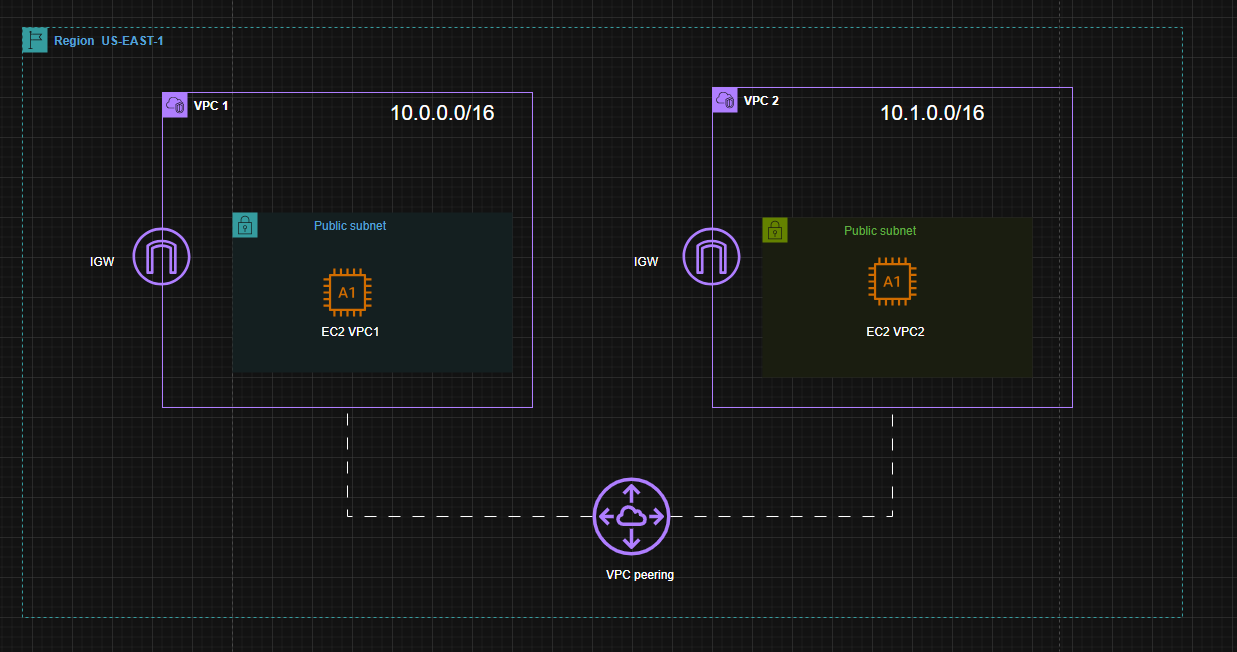
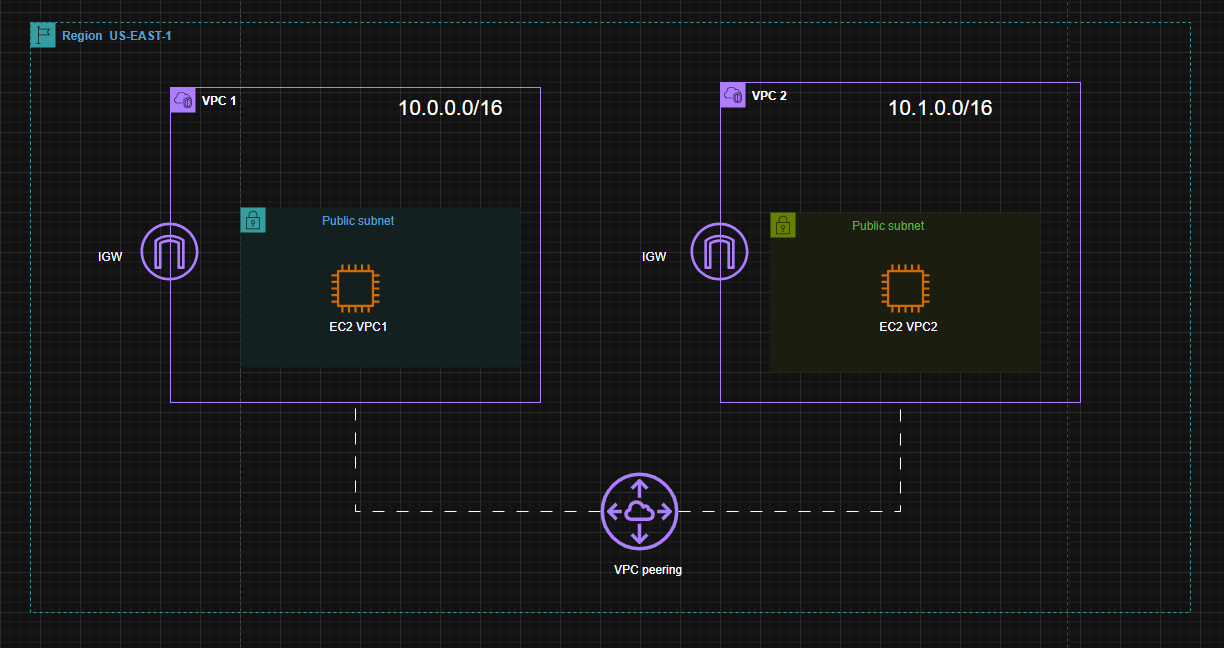
vpc peering

diff --git a/readme.md b/readme.md
@@ -1,1 +1,1 @@
-## AWS Certified Solutions Architect – Associate Labs
+## AWS Solutions Architect – Labs